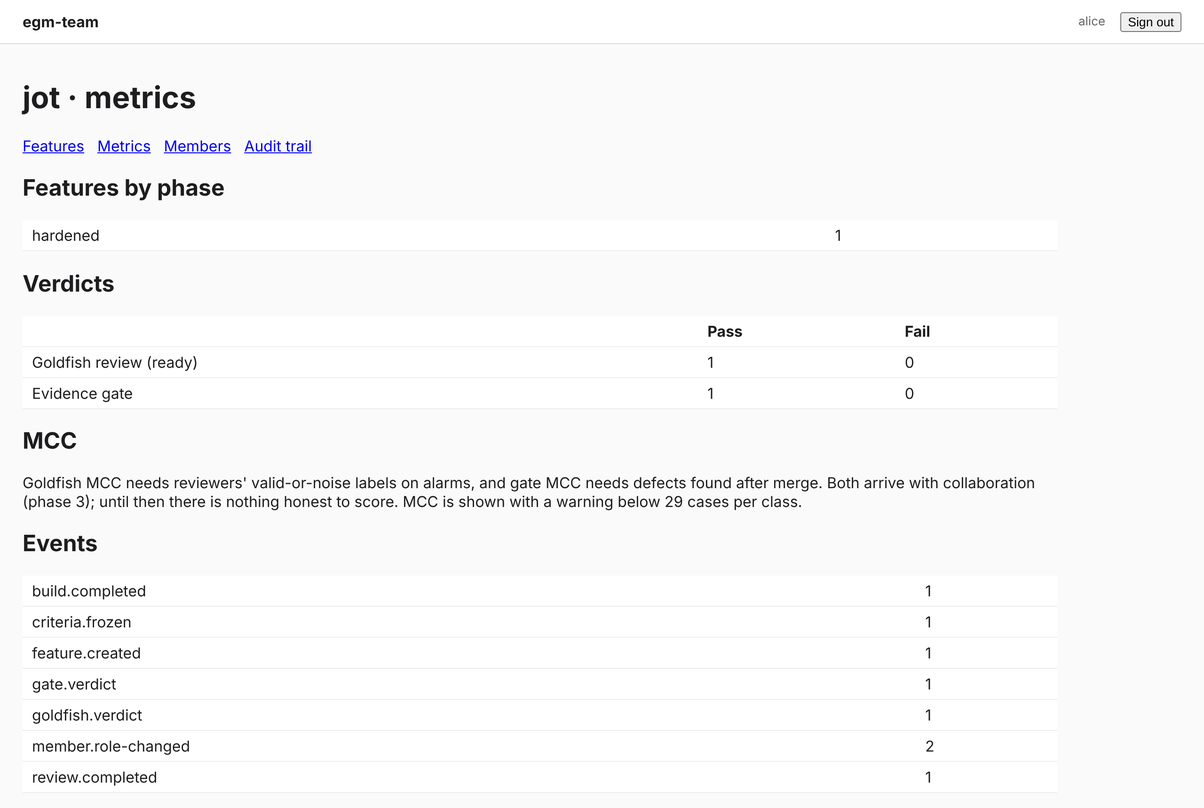
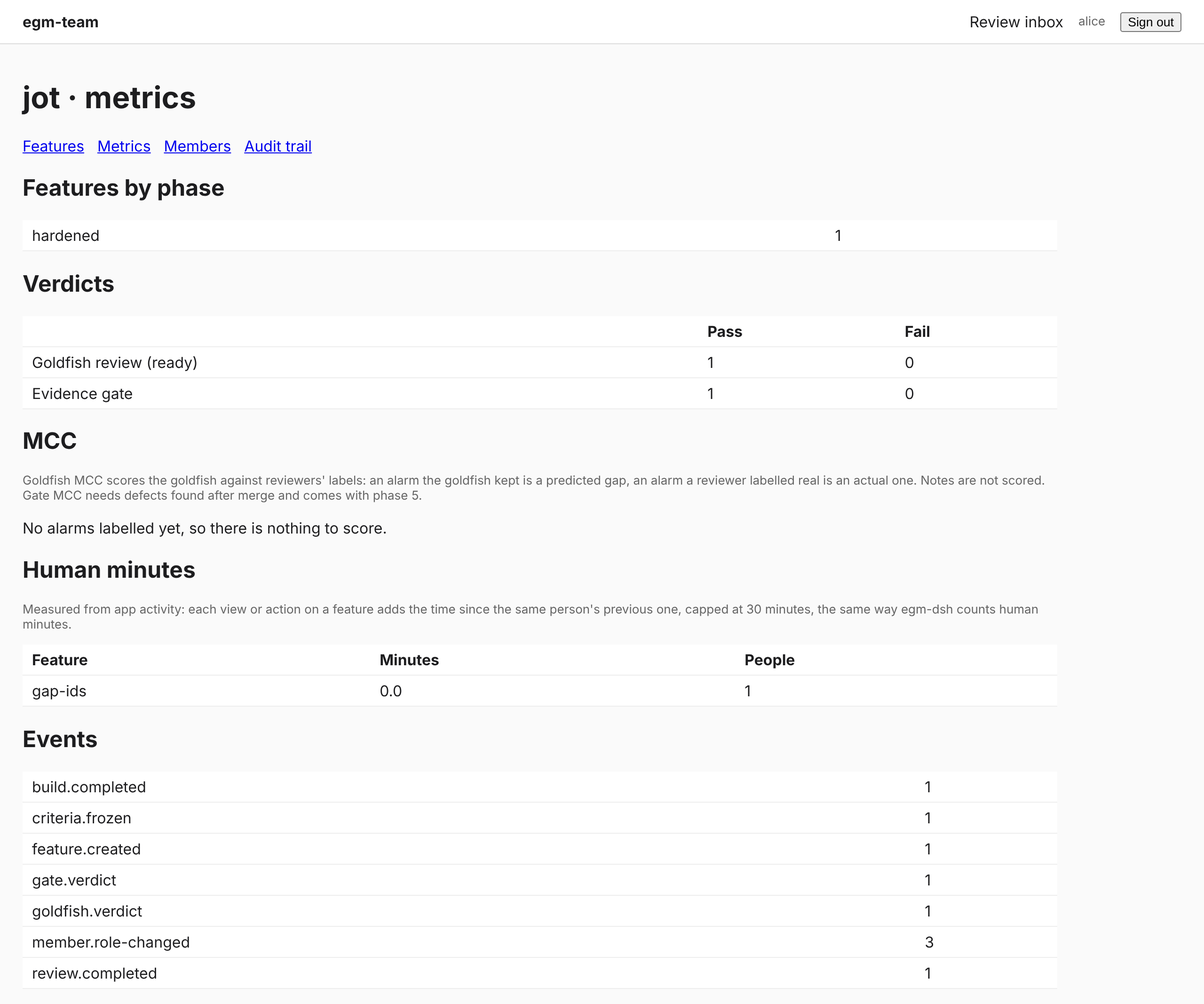
egm-team phase 3: docs, screenshots, readable comment targets
User guide: working together on a feature, mail and minutes, roles today,
[mail] configuration, new event types, guarantees and troubleshooting.
README: egm-team section and guarantees rows for separation of duties and
label counting. Five new screens captured by the browser test.

Claude-Session: https://claude.ai/code/session_019wJcE8fM3f5GXPqLozudE2

diff --git a/crates/egm-web/src/collab.rs b/crates/egm-web/src/collab.rs
@@ -46,6 +46,17 @@ pub fn alarms(reviews: &[(u32, Value)]) -> Vec<(u32, i64, String, String, bool)>
     out
 }
 
+/// How a comment target reads: "the doc", "section Problem", "alarm 2 (round 1)".
+pub fn target_label(t: &str) -> String {
+    if let Some(s) = t.strip_prefix("section:") {
+        format!("section {s}")
+    } else if let Some((n, id)) = t.strip_prefix("alarm:").and_then(|r| r.split_once(':')) {
+        format!("alarm {id} (round {n})")
+    } else {
+        "the doc".into()
+    }
+}
+
 /// The doc's `## ` headings, for comment targets.
 pub fn sections(doc: &str) -> Vec<String> {
     doc.lines().filter_map(|l| l.strip_prefix("## ").map(|h| h.trim().to_string())).filter(|h| !h.is_empty()).collect()
@@ -255,7 +266,7 @@ pub async fn collab_panel(cx: &Cx, p: &str, slug: &str) -> Result<impl View> {
             <div id="comment-list">
                 for (target, who, body, at) in &comments {
                     <div class="comment" style="background:#fff;border:1px solid #ddd;padding:8px;margin-bottom:8px">
-                        <div class="muted">(who)" on "(target)" · "(crate::app::when(at))</div>
+                        <div class="muted">(who)" on "(target_label(target))" · "(crate::app::when(at))</div>
                         <div style="white-space:pre-wrap">(body)</div>
                     </div>
                 }
@@ -336,6 +347,9 @@ mod tests {
     fn targets_and_sections() {
         assert!(valid_target("doc") && valid_target("section:Problem") && valid_target("alarm:2:7"));
         assert!(!valid_target("") && !valid_target("section:") && !valid_target("alarm:x:1") && !valid_target("file:/etc/passwd"));
+        assert_eq!(target_label("section:Problem"), "section Problem");
+        assert_eq!(target_label("alarm:1:7"), "alarm 7 (round 1)");
+        assert_eq!(target_label("doc"), "the doc");
         assert_eq!(sections("# T\n## Problem\ntext\n## Goals and non-goals\n"), ["Problem", "Goals and non-goals"]);
     }
 

diff --git a/README.md b/README.md
@@ -18,7 +18,7 @@ It is an independent project. Google publishes its own [Elephant-Goldfish Model 
 
 - **Right-sized models** — every role runs on its own model, reasoning effort and tool list. The default `balanced` preset gives the elephant and the builder DeepSeek V4 Pro and gives the goldfish and the reviewer Flash. `egm-dsh usage` shows what each role cost.
 
-- **A team web app** — `egm-team` lets developers, reviewers and approvers follow every feature in the browser: the board, the design doc and its revisions, goldfish reviews, evidence, metrics and the audit trail. People sign in with GitHub or GitLab, every page checks a Lean-proven policy first, and every change is recorded in [Vesdb](https://github.com/dhaneshkk/test1_vesdb), a tamper-evident audit log. The view is read-only for now; comments, approvals and running egm-dsh from the browser come next.
+- **A team web app** — `egm-team` lets developers, reviewers and approvers follow every feature in the browser: the board, the design doc and its revisions, goldfish reviews, evidence, metrics and the audit trail. People sign in with GitHub or GitLab, every page checks a Lean-proven policy first, and every change is recorded in [Vesdb](https://github.com/dhaneshkk/test1_vesdb), a tamper-evident audit log. Reviewers comment, label goldfish alarms real or noise (which scores the goldfish by MCC), review and approve merges from a risk-sorted inbox; nobody approves their own work, and a high-risk merge needs the approver. Running egm-dsh from the browser comes next.
 
 **New here?** The [user guide](docs/USER_GUIDE.md) walks through each role step by step: developers on the command line, teammates in the web app, the admin who runs it, and the auditor who checks the record. This README explains how it all works.
 
@@ -73,7 +73,7 @@ cargo install --path .        # or: cargo build --release
 egm-dsh demo                      # offline: the whole loop on a bundled sample, in seconds
 ```
 
-`cargo build --workspace --release` builds every binary (`egm-dsh`, `egm-audit`, `egm-team`). For the team web app, see [egm-team](#egm-team-the-team-web-app-read-only-view) and the [user guide's admin part](docs/USER_GUIDE.md#part-3-running-egm-team).
+`cargo build --workspace --release` builds every binary (`egm-dsh`, `egm-audit`, `egm-team`). For the team web app, see [egm-team](#egm-team-the-team-web-app) and the [user guide's admin part](docs/USER_GUIDE.md#part-3-running-egm-team).
 
 `egm-dsh demo` creates `./egm-dsh-demo`, a tiny Python note-taking CLI called `jot`, and adds a feature to it: *tag notes and list notes by tag*. The first goldfish review fails because the design never says what happens to notes saved before tags existed; you answer, the elephant redrafts, a fresh goldfish passes, and only then does the agent build. Run the same script against real DeepSeek Harness with:
 
@@ -933,9 +933,9 @@ egm-audit bundle 0 1 2                            # offline evidence bundle; che
 
 **Who may do what** (`policy.rs`, mirrored by `proofs/EgmPolicy.lean`): developers start features and run jobs; reviewers and approvers review, label alarms and approve merges; only an approver approves a high-risk merge; admins change members and settings; auditors read and export; the worker records what a job did. Nobody reviews or approves a feature they wrote, and taking a role away never grants an action.
 
-## egm-team: the team web app (read-only view)
+## egm-team: the team web app
 
-`crates/egm-web` builds `egm-team`, a [Topcoat](https://github.com/tokio-rs/topcoat) web app (pinned to 0.12.1; it needs Rust 1.99 or newer). This first version is read-only: people sign in and see what egm-dsh and the audit log hold. Running egm-dsh from the browser, comments and approvals come next.
+`crates/egm-web` builds `egm-team`, a [Topcoat](https://github.com/tokio-rs/topcoat) web app (pinned to 0.12.1; it needs Rust 1.99 or newer). People sign in and see what egm-dsh and the audit log hold, then review together: comments on doc sections and alarms, valid-or-noise labels on goldfish alarms, reviews that approve or request changes, and merge approval with separation of duties. Running egm-dsh from the browser comes next (phase 4).
 
 | Page | Shows |
 |---|---|
@@ -943,7 +943,8 @@ egm-audit bundle 0 1 2                            # offline evidence bundle; che
 | `/p/<project>` | The feature board, one column per gate phase |
 | `/p/<project>/f/<feature>` | The design doc, its git revisions, every goldfish review, the evidence gate's checks, risk and seeded-bug score, and the feature's audit history |
 | `/p/<project>/f/<feature>/rev/<commit>` | The doc as it was at that commit |
-| `/p/<project>/metrics` | Features by phase, goldfish and gate verdicts (MCC once reviewers label alarms) |
+| `/p/<project>/metrics` | Features by phase, goldfish and gate verdicts, the goldfish MCC from reviewers' labels (warned below 29 per class), human minutes per feature |
+| `/inbox` | Features waiting for your review, highest risk first |
 | `/p/<project>/members` | Who holds which roles |
 | `/p/<project>/audit` | Every audit event of the project |
 
@@ -953,7 +954,11 @@ More screens in the [user guide](docs/USER_GUIDE.md#screens).
 
 **Where the data comes from.** Postgres holds views rebuilt from the Vesdb audit log (`egm-team rebuild` drops and replays them); words people read (docs, review findings, evidence) come from the project's checkout, read-only. The log, not the database, is the record.
 
-**Sign-in.** GitHub or GitLab OAuth (authorization code; GitLab with PKCE). egm-team asks only for the user's identity and keeps the user's id, login and name. Sessions are `__Host-` cookies, HttpOnly and SameSite=Lax, stored hashed. Every sign-in is written to Vesdb before the session starts; with Vesdb down, nobody signs in.
+**Sign-in.** GitHub or GitLab OAuth (authorization code; GitLab with PKCE). egm-team asks only for the user's identity and keeps the user's id, login, name and public email (for notifications). Sessions are `__Host-` cookies, HttpOnly and SameSite=Lax, stored hashed. Every sign-in is written to Vesdb before the session starts; with Vesdb down, nobody signs in.
+
+**Reviewing together.** On a feature page, people with a role comment on the doc, a section or an alarm; reviewers and approvers label each goldfish alarm real or noise and submit reviews (approve, or request changes with a note). The merge panel shows the four conditions for approving the merge and which are missing. Each action is written to Vesdb first, then shown. With `[mail]` configured (SMTP; the password from `EGM_SMTP_PASSWORD`), reviewers are mailed when a gate passes and authors when someone reviews, comments or approves.
+
+![Reviews and the merge panel in egm-team](docs/screenshots/16-review-merge.png)
 
 **The policy check.** Every page and route starts with `authz::require` (or `authz::signed_in` for the projects list), which applies `policy.rs`. A refusal is a 403 and a `policy.refused` event in Vesdb. `crates/egm-web/tests/policy_lint.rs` reads the source and fails the build if a handler does not start with the check; Topcoat's shards bypass page guards, so the test covers `#[shard]` and `#[procedure]` too.
 
@@ -1044,7 +1049,9 @@ The default launcher is `npx -y @deepseek-ai/dsh@latest`; set `"dsh_command"` in
 | Replaying a feature's audit events gives exactly the gate egm-dsh kept, for every start and every trace; nothing egm-dsh emits is a transition the gate refuses; a replayed gate is safe | `proofs/EgmGate.lean`, `namespace EgmReplay`: `replay_emitted`, `emitted_never_refused`, `replay_safe`; `cargo test` (`egm-audit` replay through the events egm-core really emits); `run_audit_e2e.py` (real dsh, real Vesdb: replay from the events file and from Vesdb equals the saved gate) |
 | An author never reviews or approves their own feature; only an approver approves a high-risk merge; the worker never reviews, approves or changes roles; adding a role never takes an action away | `proofs/EgmPolicy.lean`: `author_never_approves`, `high_risk_needs_approver`, `worker_limited`, `monotone`; `cargo test` (`policy`: the same four facts over all 4,224 cases) |
 | An auditor's export of a feature holds exactly the events the app replays for it; a feature's history only grows at the end; a retried write under one idempotency key is recorded once | `proofs/VesdbLink.lean`: `export_exact`, `history_prefix`, `retry_once` (Vesdb's own `receipt_binding`, `no_fork`, `ack_durable`, `idempotent` are proved in its repository); `run_audit_e2e.py`: pushing twice writes nothing new, a killed writer loses and doubles nothing, `vesdb-verify` fails a bucket with one changed byte |
-| Every egm-team page and route checks the policy before it reads anything; an outsider gets 403 on every project page and each refusal is recorded; sign-ins are recorded before the session starts | `crates/egm-web/tests/policy_lint.rs` (reads every handler; also proves it catches a missing check); `run_web_e2e.py` (Chromium, Postgres 16, Vesdb, fake GitHub and GitLab with PKCE checked: 29 checks) |
+| Every egm-team page and route checks the policy before it reads anything; an outsider gets 403 on every project page and each refusal is recorded; sign-ins are recorded before the session starts | `crates/egm-web/tests/policy_lint.rs` (reads every handler; also proves it catches a missing check); `run_web_e2e.py` (Chromium, Postgres 16, Vesdb, fake GitHub and GitLab with PKCE checked, a fake SMTP server: 61 checks) |
+| Separation of duties: nobody reviews or approves their own feature; a merge approval needs a built feature, a gate passed for the current doc and an approving review by someone else; a high-risk (or unassessed) merge needs the approver | `proofs/EgmPolicy.lean`: `merge_never_self`, `merge_needs_gate`, `merge_needs_other_review`, `merge_high_needs_approver`; `cargo test` (`policy`: all 6,144 combinations); `run_web_e2e.py` (the author's review, label and approvals are 403 and recorded; the reviewer's high-risk approval is 403; the approver's succeeds) |
+| The goldfish MCC in egm-team counts each labelled alarm once, with its latest label | `proofs/EgmLabels.lean`: `confusion_total`, `perfect_agreement`, `relabel_moves_one`; `run_web_e2e.py` (the page's MCC equals the MCC of the clicks, and survives a rebuild) |
 | The Rust gate matches the Lean model | `cargo test`: all 117,649 event traces up to length 6; the invariant is also asserted on every save |
 | egm works with real DeepSeek Harness | `python3 tests/e2e/run_dsh_e2e.py target/release/egm-dsh --preset P dsh` runs the real `dsh` binary against a scripted fake model endpoint and checks: session resume, read-only enforcement, write access only for build, the gate, and a hardened result |
 
@@ -1098,7 +1105,8 @@ Cost: about $0.08 per doc and repeat at peak rates. The test split with 3 repeat
 - The elephant's view is a cost control, not a sandbox: a read outside it (by absolute path, or by shell where the preset allows one) is warned about, not refused. Each elephant turn copies the view afresh, which costs time on a very large repository; a scope keeps it small.
 - The word limit is a request to the model; egm-dsh reports overruns but does not cut text. It is the one that should read the project, and it may also read `.egm-dsh/`.
 - The termination proof covers egm's own steps. A human can keep editing the doc forever; each edit only reopens design.
-- egm-team is read-only so far: people read, they do not yet comment, label alarms, approve or run egm-dsh from the browser. Until the worker exists, events reach the app by `egm-dsh --events` plus `egm-audit push`, and docs by keeping the team's checkout current.
+- egm-team does not run egm-dsh yet, and approving a merge records the approval but does not merge on GitHub or GitLab (phases 4 and 5). Until the worker exists, events reach the app by `egm-dsh --events` plus `egm-audit push`, and docs by keeping the team's checkout current.
+- The goldfish MCC in egm-team means little until reviewers have labelled at least 29 real and 29 noise alarms; the page says so. Gate MCC needs defects found after merge (phase 5). Human minutes count only time spent in the app, capped at 30 minutes per gap.
 - egm-team is built on Topcoat 0.12, which its authors call experimental. It is pinned exactly and kept in one crate so an upgrade, or a move to axum and htmx, touches only the UI.
 - Vesdb is young (0.1) and has not been independently audited. An auditor may ask for such a review before relying on it.
 - Sign-in proves who someone is on GitHub or GitLab, nothing more; access comes only from roles granted in egm-team. If Vesdb is unreachable, sign-in stops and refusals are logged locally instead of in the audit log.

diff --git a/docs/USER_GUIDE.md b/docs/USER_GUIDE.md
@@ -179,9 +179,23 @@ Open the address your admin gave you and choose **Sign in with GitHub** or **Sig
 | **Projects** (home) | The projects you belong to, with their feature count |
 | **Features** (`/p/<project>`) | The board: one column per phase, newest change first. A red line on a card means the feature's history in the audit log contains a step the gate refuses; tell your admin |
 | **Feature** (click a card) | The design doc as it is in the checkout; its git revisions (click one to read the doc as it was then); every goldfish review round with its verdict and how many alarms it kept; the evidence gate's checks, risk tier and seeded-bug score; the feature's audit history |
-| **Metrics** | Features by phase, goldfish and evidence-gate verdict counts. MCC appears once reviewers label alarms (*not yet*, phase 3) |
+| **Review inbox** (header link) | Features waiting for your review in every project where you review: built, the evidence gate passed for the current doc, not yet approved, not written by you. Highest risk first |
+| **Metrics** | Features by phase, goldfish and evidence-gate verdict counts; the goldfish MCC from reviewers' labels; human minutes per feature, measured from activity in the app |
 | **Members** | Who holds which roles in the project |
 | **Audit trail** | Every recorded event of the project, newest first. Each one is in Vesdb's tamper-evident log and can be verified offline |
+
+### Work together on a feature
+
+Everything below is on the feature page, under the goldfish reviews. Each action is written to the audit log first; if Vesdb does not accept it, nothing happens.
+
+- **Comment.** Pick what the comment is about (the whole doc, one `##` section, or one alarm) and write it. Developers, reviewers and approvers can comment, the author included. The author is mailed when someone else comments.
+- **Label alarms** (reviewers and approvers). For each goldfish alarm, say whether it was a **Real** gap in the doc or **Noise**. Click again to change your mind; the latest label counts. Notes are not listed: they never count against a doc, so there is nothing to score. Your labels score the goldfish on the Metrics page: an alarm the goldfish kept is its prediction of a real gap, your label is the truth. Below 29 labels in either class the MCC carries a warning; treat it as a sketch until then.
+- **Review** (reviewers and approvers, once the feature is built). **Approve**, or **Request changes** with a note saying what must change. A review is for the doc as it is now; after the doc changes, earlier reviews are shown as "an earlier revision" and no longer count.
+- **Approve the merge.** The panel lists the four things a merge approval needs and which are missing: the author is recorded, the feature is built, the evidence gate passed for this doc, and someone other than the author approved it in a review. A low- or medium-risk feature can then be approved by a reviewer; a high-risk one, or one whose risk was never assessed, only by an approver. The author never can, whatever roles they hold. Merging on GitHub or GitLab itself comes with phase 5.
+
+**Mail.** When mail is configured (Part 3), egm-team mails reviewers and approvers when a feature's evidence gate passes, and mails the author when someone else comments, reviews, or approves the merge. Nobody is mailed about their own action. The address is the one your GitHub or GitLab account shows publicly; with none, you get no mail.
+
+**Minutes.** Each time you open a feature or act on it, egm-team adds the time since your previous visit or action, at most 30 minutes (a longer gap is time away), the same way egm-dsh counts human minutes. Nothing else about your activity is kept.
 
 ### Screens
 
@@ -195,24 +209,26 @@ Captured by the browser test (`tests/e2e/run_web_e2e.py`) against real egm-dsh o
 | ![Members](screenshots/07-members.png) **Members** | ![Audit trail](screenshots/08-audit-trail.png) **Audit trail** |
 | ![No projects](screenshots/09-outsider-no-projects.png) **Signed in, no role yet** | ![No access](screenshots/10-outsider-no-access.png) **403: no role in this project** |
 | ![Phone board](screenshots/12-board-phone.png) **Board on a phone** | ![Phone feature](screenshots/13-feature-phone.png) **Feature page on a phone** |
+| ![Review inbox](screenshots/14-review-inbox.png) **Review inbox, highest risk first** | ![Alarm labels and comments](screenshots/15-labels-comments.png) **Labelling alarms, comments** |
+| ![Reviews and merge approval](screenshots/16-review-merge.png) **Reviews and the merge panel** | ![Goldfish MCC](screenshots/17-metrics-mcc.png) **Goldfish MCC from labels, human minutes** |
+| ![Author's view](screenshots/18-author-view.png) **The author's view: no review, no approval** | |
 
 ### What you can do with each role
 
-Today the app is read-only: every role can read its projects. The other permissions below are already decided and proved, and take effect as the features arrive.
-
 | Role | Can (today) | Will be able to |
 |---|---|---|
-| developer | read | start features and run egm-dsh jobs (phase 4), comment (phase 3) |
-| reviewer | read | comment, label alarms valid or noise, submit reviews, approve low- and medium-risk merges (phase 3) |
-| approver | read | everything a reviewer can, approve high-risk merges, export evidence |
-| admin | read | change members, roles and project settings, export evidence |
+| developer | read, comment | start features and run egm-dsh jobs (phase 4) |
+| reviewer | read, comment, label alarms, review, approve low- and medium-risk merges | |
+| approver | everything a reviewer can, and approve high-risk merges | export evidence |
+| admin | read | change members, roles and project settings in the app, export evidence |
 | auditor | read | export evidence |
 
 Nobody can review or approve a feature they wrote, whatever roles they hold.
 
 ### When something says no
 
-- **403 Forbidden**: you have no role in that project. The refusal is recorded in the audit log with your id. Ask an admin.
+- **403 Forbidden**: you have no role in that project, or your roles do not allow that action (reviewing your own feature, approving a high-risk merge without the approver role). The refusal is recorded in the audit log with your id and the action.
+- **"cannot approve yet: …"**: the merge panel's reason, such as no approving review by someone else yet, or a gate that passed for an older doc. The attempt is recorded too.
 - **Sign-in failed**: start again from the sign-in page in the same browser tab. Sign-in links expire after ten minutes and work only in the browser that started them.
 - **The page is out of date**: the app reads new events every second or so. A doc change shows once it is pushed to the team's checkout.
 
@@ -269,6 +285,13 @@ client_id = "Iv1.abc"
 [gitlab]
 client_id = "abc"
 base_url  = "https://gitlab.com"   # or your own GitLab
+
+[mail]                             # optional: notifications
+host     = "smtp.example"
+port     = 587
+tls      = "starttls"              # or "tls" (port 465), or "none" (a local relay only)
+from     = "egm-team <egm-team@example>"
+username = "egm-team"              # optional; the password comes from EGM_SMTP_PASSWORD
 ```
 
 Secrets come from the environment only:
@@ -278,6 +301,7 @@ Secrets come from the environment only:
 | `EGM_VESDB_TOKEN` | The Vesdb token |
 | `EGM_GITHUB_CLIENT_SECRET` | Needed when `[github]` is configured |
 | `EGM_GITLAB_CLIENT_SECRET` | Needed when `[gitlab]` is configured |
+| `EGM_SMTP_PASSWORD` | Needed when `[mail]` has a `username` |
 
 A user id is the provider and the provider's numeric id, such as `github:1234` or `gitlab:5678`; it stays the same if they rename their account. Find a GitHub id at `https://api.github.com/users/<login>`, a GitLab id on the user's profile page.
 
@@ -305,7 +329,8 @@ A field-test team of four could be two developers, one reviewer and one approver
 | Task | How |
 |---|---|
 | Rebuild the views (after a restore, or if in doubt) | `egm-team --config egm-team.toml rebuild` |
-| Back up | Vesdb is the record; follow its backup guidance. Postgres needs no backup: every view is rebuilt from Vesdb, and losing it only signs people out |
+| Back up | Vesdb is the record; follow its backup guidance. Postgres needs no backup: every view is rebuilt from Vesdb, and losing it only signs people out and resets the activity minutes. The mail outbox survives `rebuild`, so nobody is mailed twice |
+| See failed mail | `SELECT to_addr, subject, error FROM outbox WHERE error IS NOT NULL` in Postgres; egm-team's log names each failure |
 | See refusals and sign-ins | The project's Audit trail page, or read `/egm/_system` and `/egm/<project>` from Vesdb |
 | Upgrade | Topcoat is pinned to 0.12.1 and lives only in `crates/egm-web`; upgrade it there and run the browser test (`tests/e2e/run_web_e2e.py`) |
 
@@ -341,6 +366,8 @@ The phase printed for each feature must match the board. That it always does is 
 | Control | Where it is proved or tested |
 |---|---|
 | Nobody reviews or approves their own work; only an approver approves a high-risk change; the worker never approves | `proofs/EgmPolicy.lean` |
+| A merge approval needs a built feature, a gate passed for the current doc and an approving review by someone else | `EgmPolicy.merge_never_self`, `merge_needs_gate`, `merge_needs_other_review`, `merge_high_needs_approver`; `policy.rs` checks every combination; `run_web_e2e.py` (the author's attempts and the reviewer's high-risk approval are refused and recorded) |
+| The goldfish MCC counts every reviewer label exactly once, the latest per alarm | `proofs/EgmLabels.lean`: `confusion_total`, `perfect_agreement`, `relabel_moves_one`; `run_web_e2e.py` (MCC on the page equals the MCC of the clicks, before and after a rebuild) |
 | A person with no role in a project can read nothing in it | `EgmPolicy.read_iff_member`; `run_web_e2e.py` (outsider gets 403 on every page, each refusal recorded) |
 | Every page checks the policy first | `crates/egm-web/tests/policy_lint.rs` fails the build otherwise |
 | No build without a goldfish pass of the current doc | `proofs/EgmGate.lean` |
@@ -398,8 +425,12 @@ Stored in Vesdb as `io.egm.<type>`.
 | `auth.signed-in` | egm-team | `_system` | user id, login, name, provider |
 | `auth.sign-in-failed` | egm-team | `_system` | provider, reason |
 | `policy.refused` | egm-team | project | action, reason; the actor is the refused user |
+| `comment.added` | egm-team | feature | target (doc, section or alarm), text, doc hash |
+| `alarm.labelled` | egm-team | feature | round, alarm, valid or noise, whether the goldfish kept it, doc hash |
+| `review.submitted` | egm-team | feature | approve or changes, note, doc hash |
+| `merge.approved` | egm-team | feature | doc hash, risk tier |
 
-Planned with later phases: `alarm.labelled`, `comment.added`, `review.submitted`, `merge.approved`, `project.settings-changed`, `export.created`.
+Comments and review notes are the one place people's words enter the log, because they are the review record. Planned with later phases: `project.settings-changed`, `export.created`.
 
 ### Files egm-dsh keeps
 
@@ -424,4 +455,6 @@ Planned with later phases: `alarm.labelled`, `comment.added`, `review.submitted`
 | `egm-audit push`: "set VESDB_URL" | The environment is missing | Export `VESDB_URL` and `VESDB_TOKEN` |
 | egm-team won't start: "set EGM_..." | A secret is missing from the environment | Export the variable it names |
 | A feature card shows a red line | The audit log holds a gate step the gate refuses: written by something other than egm-dsh | Check the feature's audit history; report it |
+| A built feature is not in the review inbox | The gate has not passed for the current doc, the merge is already approved, or you wrote it | Open the feature: the merge panel says which |
+| No mail arrives | `[mail]` is not configured, your provider account shows no public email, or the SMTP server refused it | Ask the admin to check the outbox (Part 3, step 6) |
 | Everyone is signed out after a restart | Sessions live in Postgres; a new database means new sessions | Sign in again; nothing in the record is lost |
